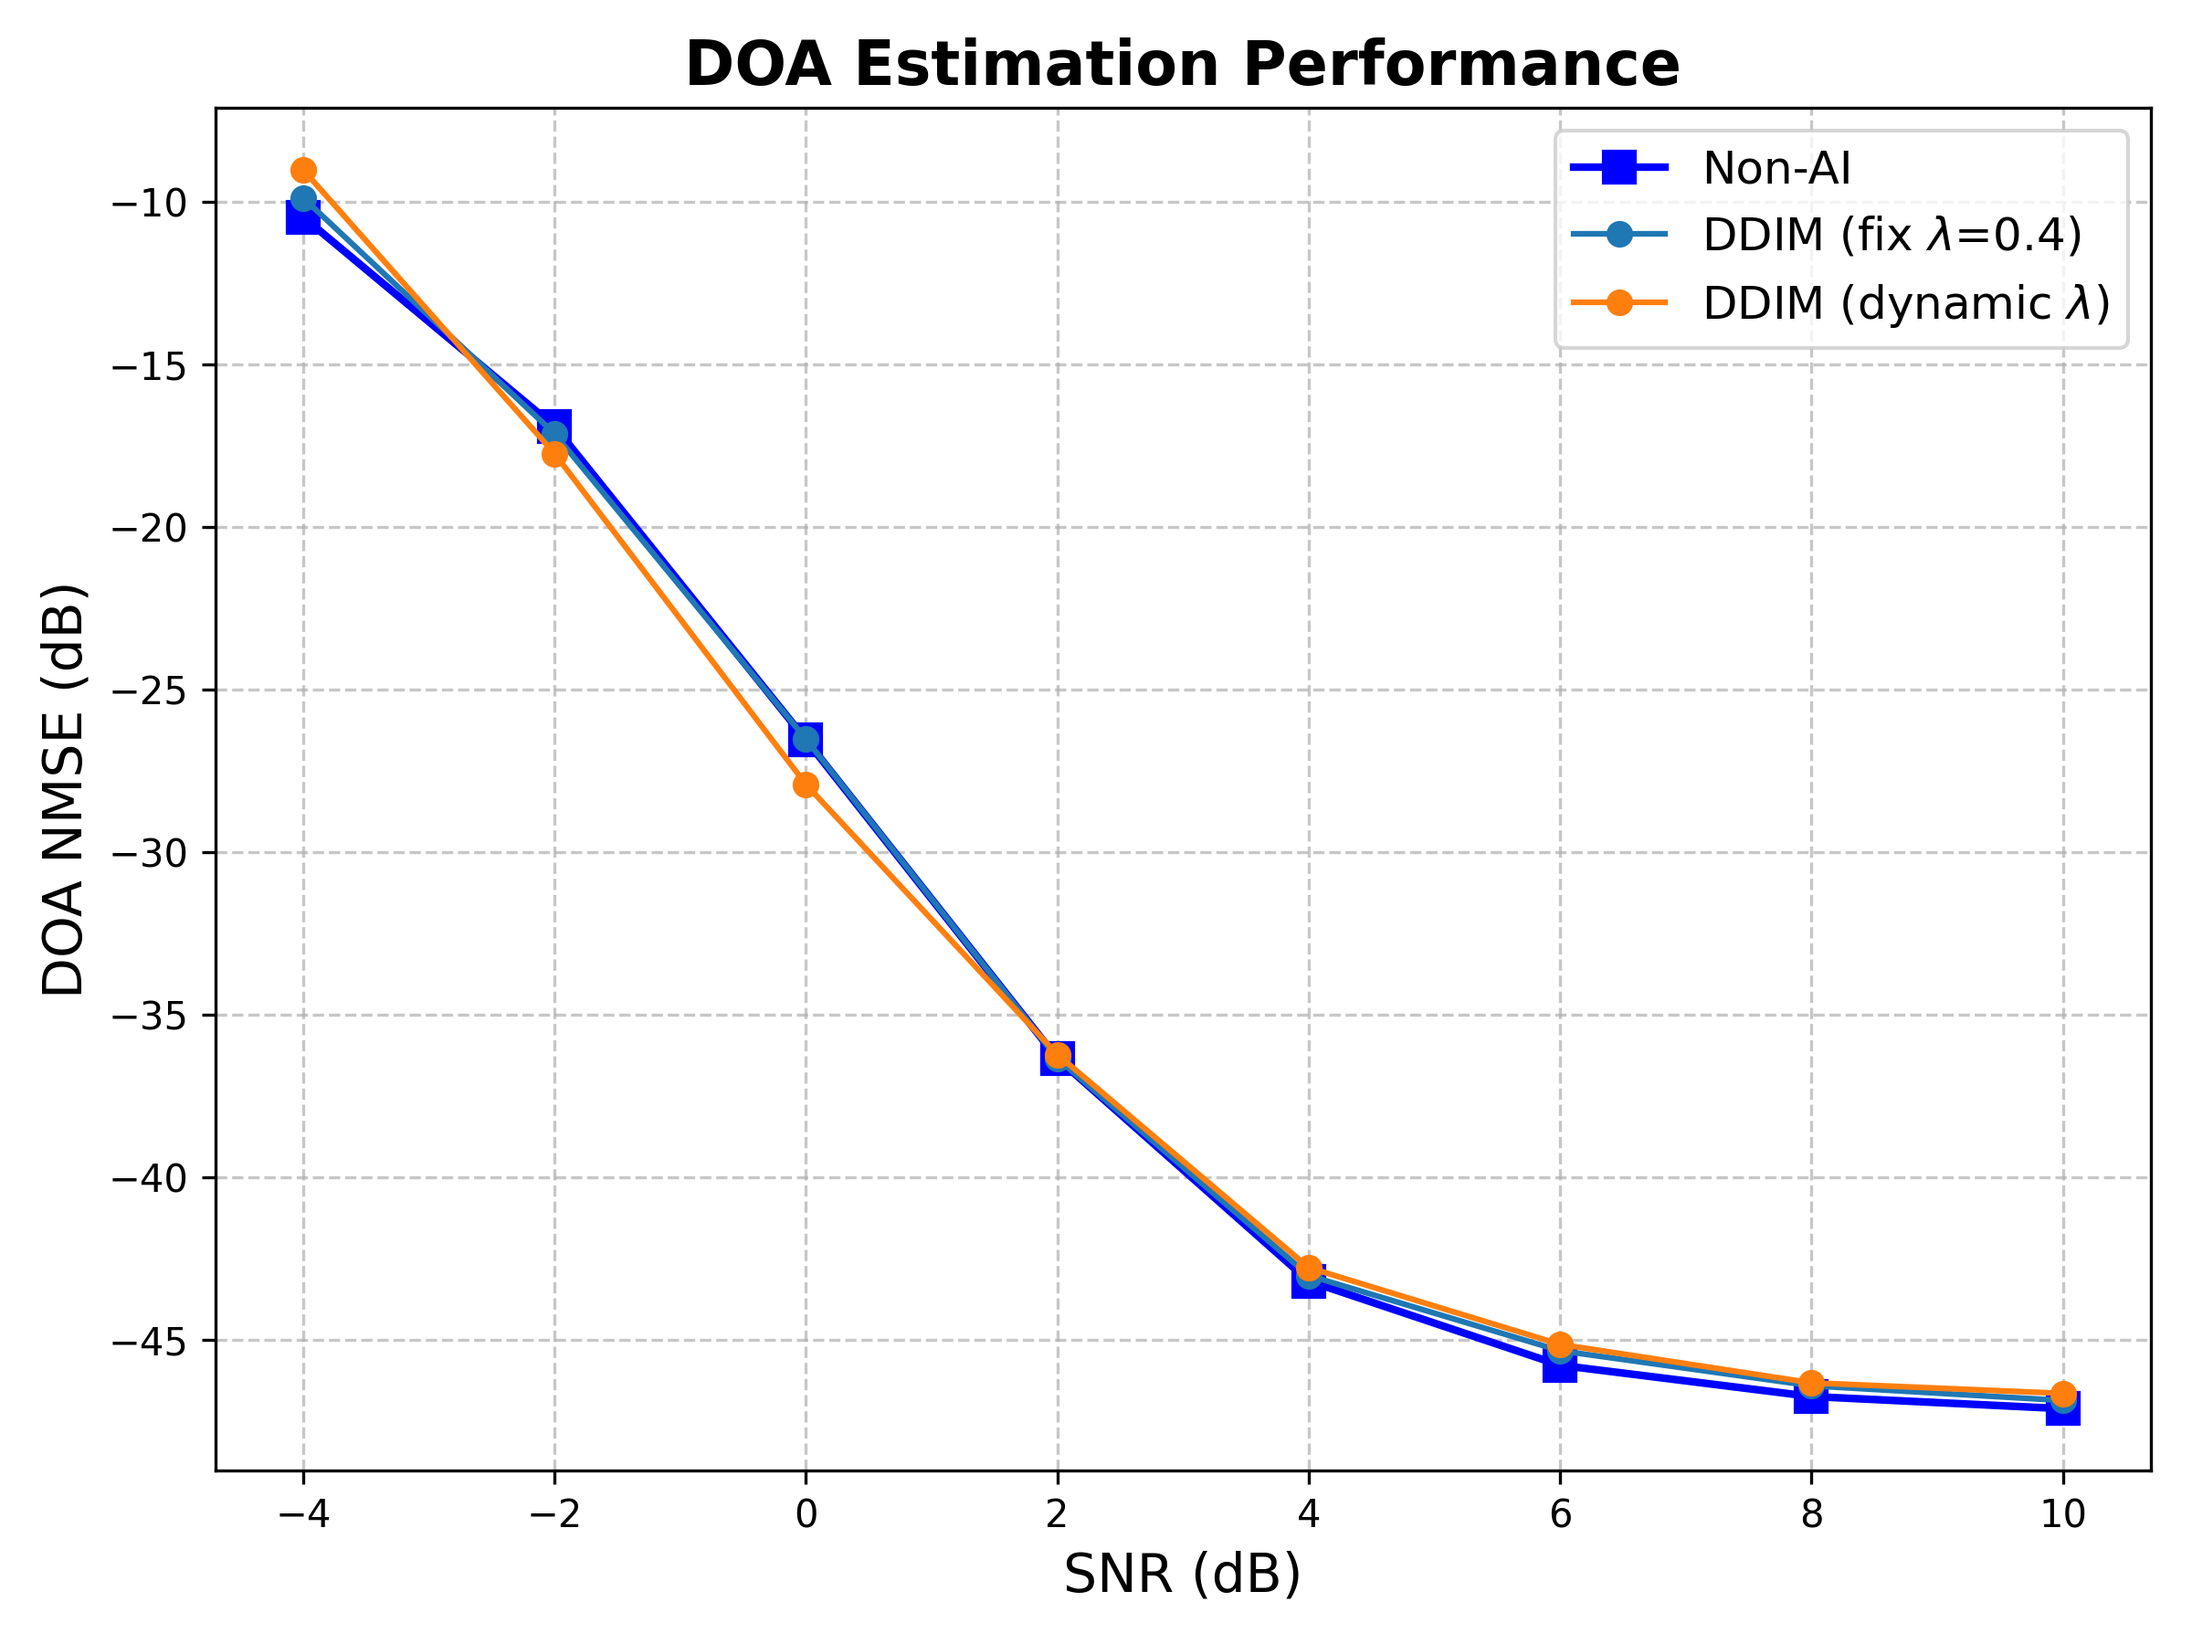
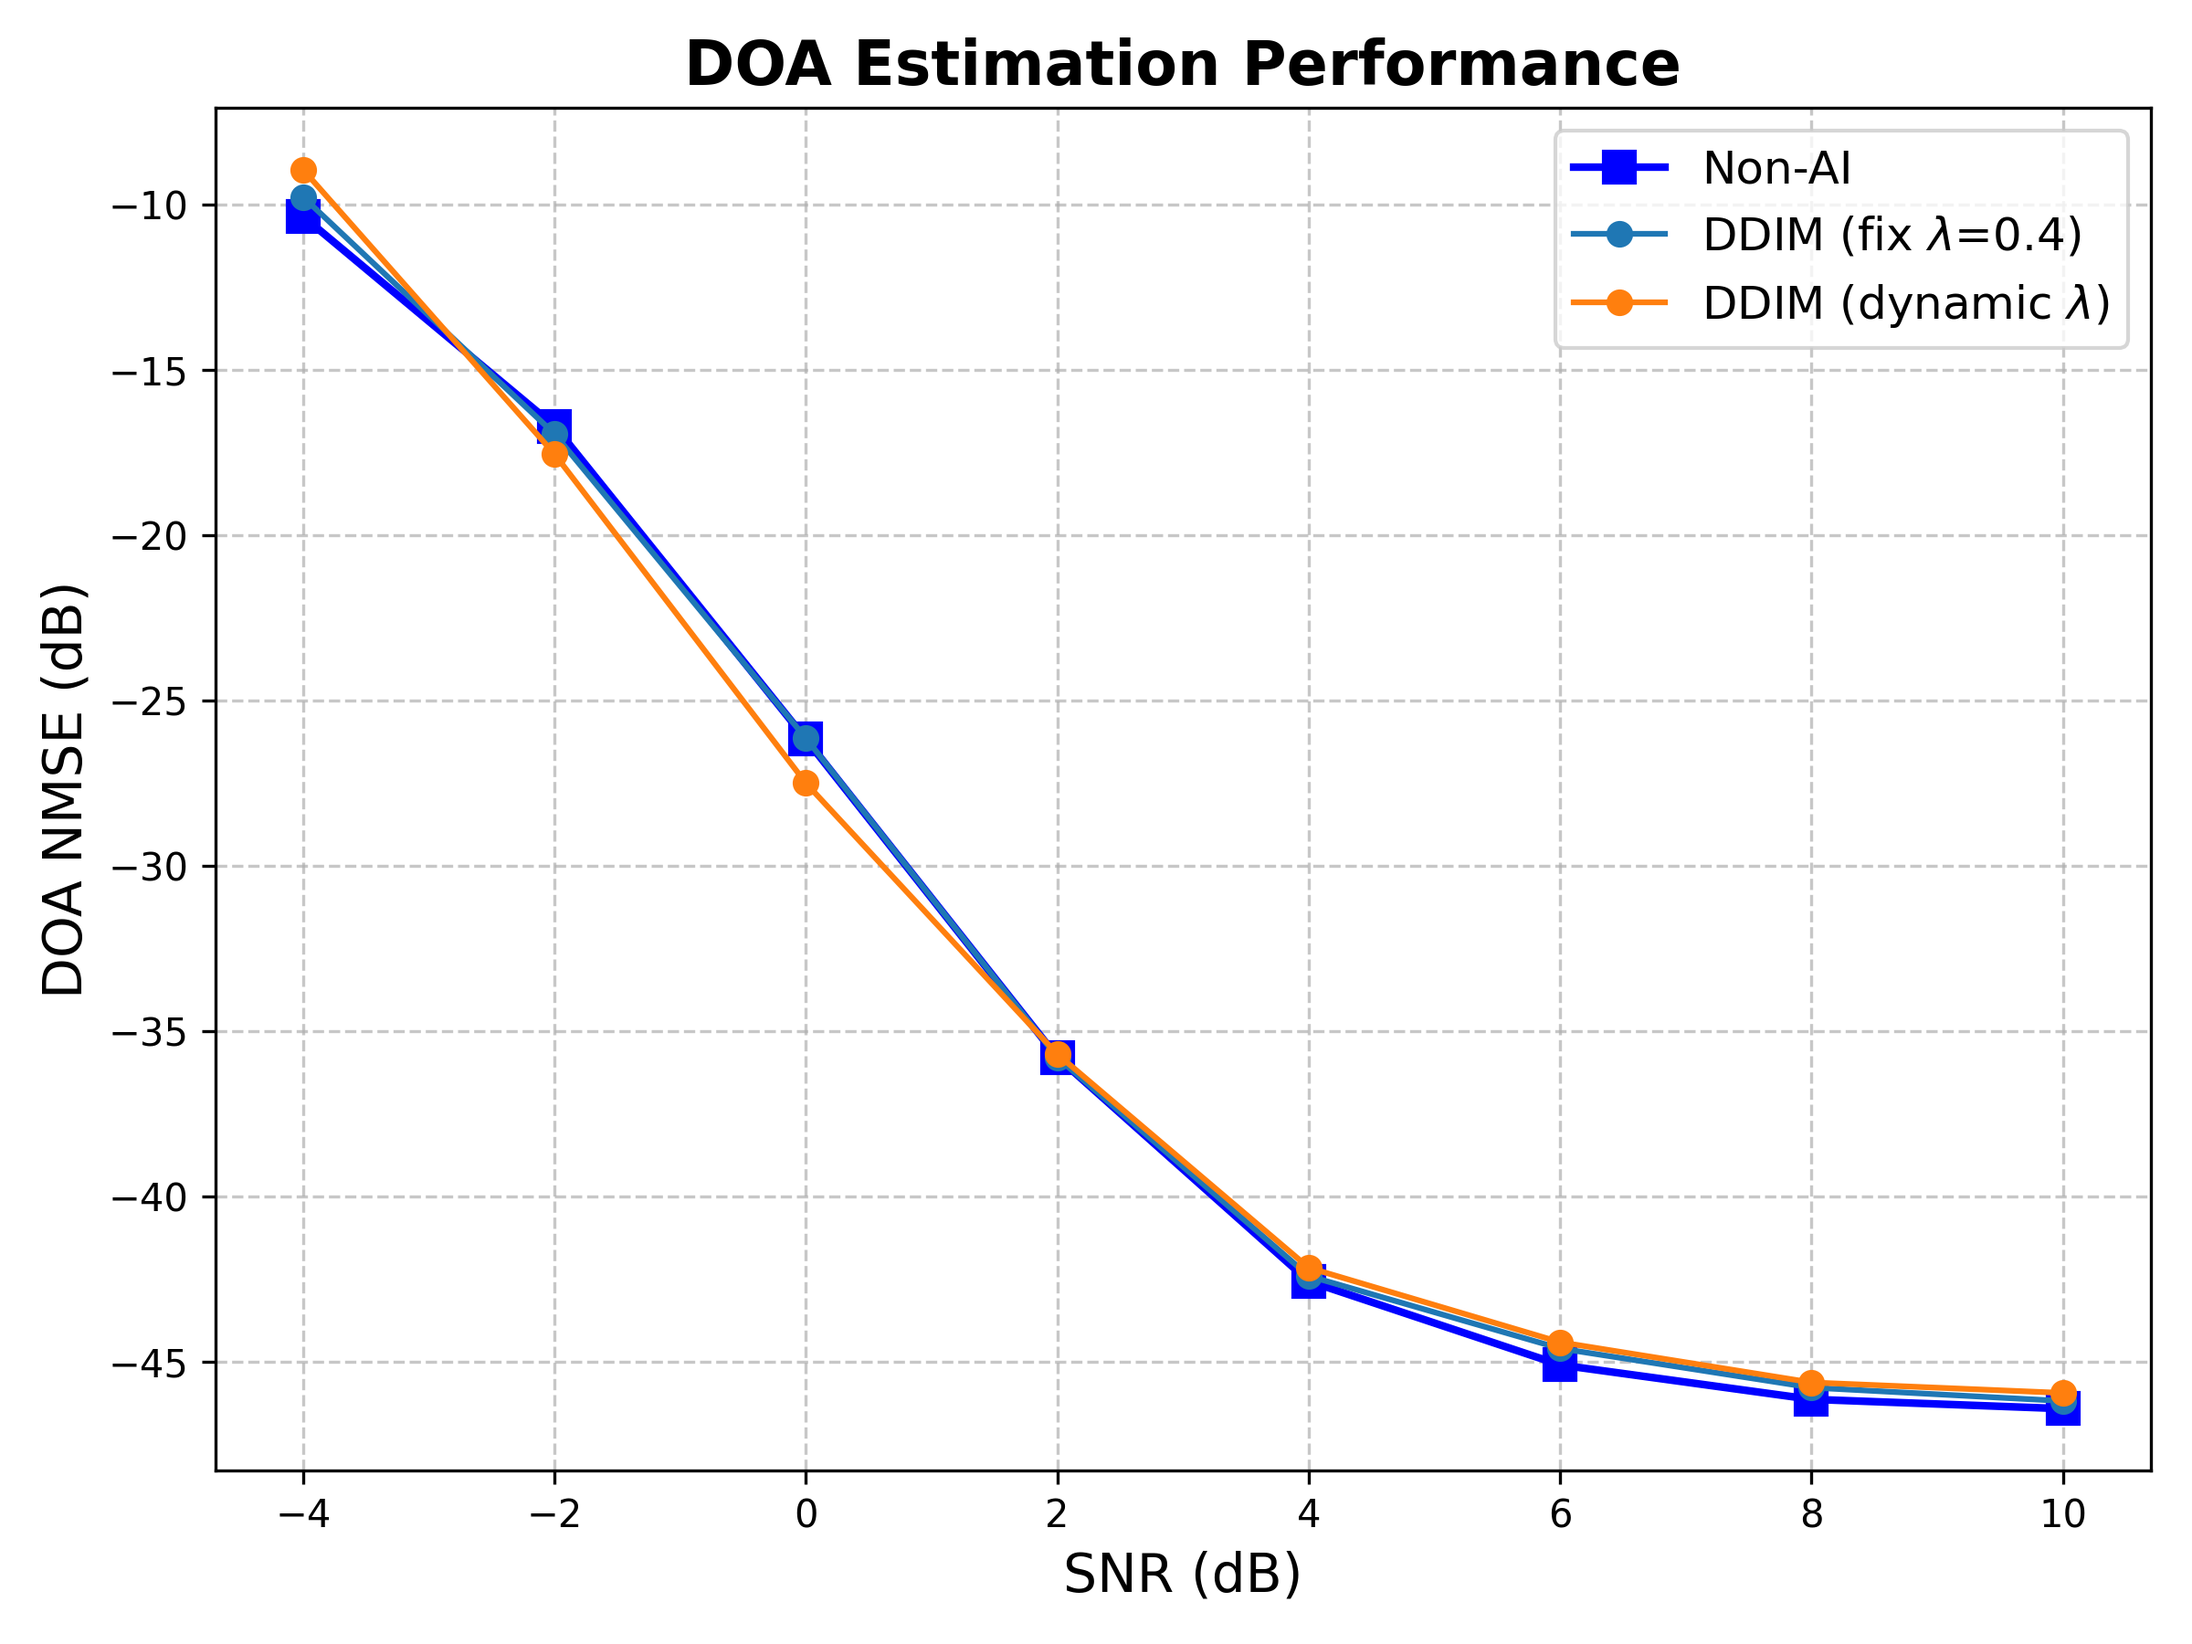
test(em): set toeplitz_k=5 in EM algorithm
- Updated parameter input: sent toeplitz_k=5 into alternating_estimation_monotone_batch
- Result: Both Fixed and Dynamic lambda perform slightly better than before in the MCM low SNR region

diff --git a/sim2/DDIM/main_dynamic_lambda.py b/sim2/DDIM/main_dynamic_lambda.py
@@ -115,7 +115,7 @@ elif MODE == 'test':
                                             x0_est_all, N, P,
                                             num_outer=5, num_inner=50,
                                             lr_theta=5e-2, lr_M=1e-2,
-                                            toeplitz_K=4, device=device)
+                                            toeplitz_K=5, device=device)
 
         # Calculate NMSE for each SNR level
         theta_nmse_db, M_nmse_db = calculate_nmse_theta_M(theta_est_batch, M_est_batch,

diff --git a/sim2/DDIM/main_fix_lambda.py b/sim2/DDIM/main_fix_lambda.py
@@ -131,7 +131,7 @@ elif MODE == 'test':
                                             x0_est_all, N, P,
                                             num_outer=5, num_inner=50,
                                             lr_theta=5e-2, lr_M=1e-2,
-                                            toeplitz_K=4, device=device)
+                                            toeplitz_K=5, device=device)
 
         # Calculate NMSE for each SNR level
         theta_nmse_db, M_nmse_db = calculate_nmse_theta_M(theta_est_batch, M_est_batch,

diff --git a/sim2/DDIM/test_baseline_non_AI.py b/sim2/DDIM/test_baseline_non_AI.py
@@ -56,7 +56,7 @@ def run_baseline_test():
                                             num_inner=NUM_INNER_EM,
                                             lr_theta=LR_THETA, 
                                             lr_M=LR_M,
-                                            toeplitz_K=4,
+                                            toeplitz_K=5,
                                             device=device)
 
         # 4. --- Calculate NMSE for each SNR level ---
